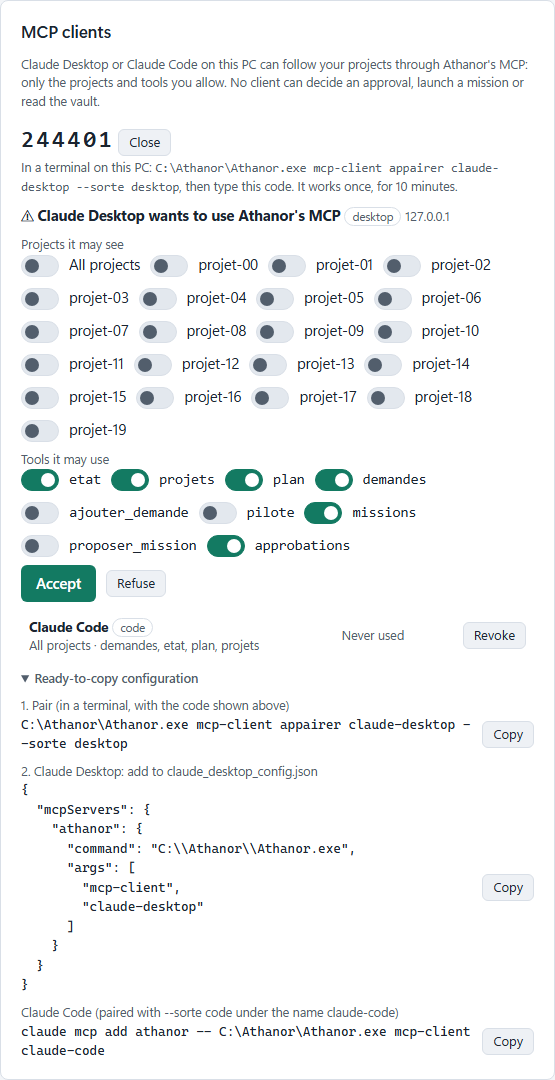
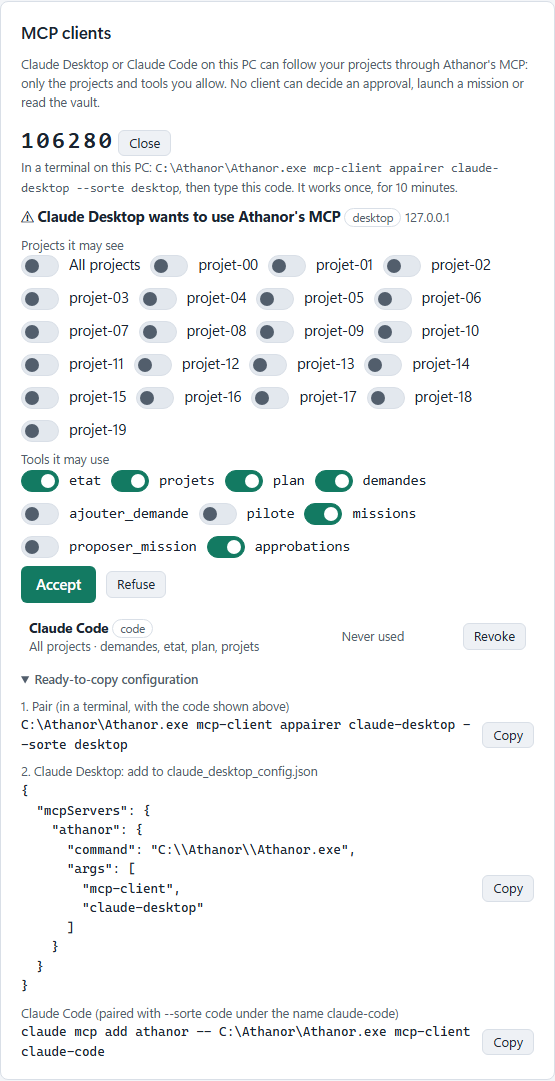
M217: Add hub, module and security images to the READMEs
- English captures of the hub, vault, access, servers, mission and e-mail pages
- Generated SVG diagrams of the modules and of the security model
- Both READMEs place the new images with translated alt texts

diff --git a/README.fr.md b/README.fr.md
@@ -37,7 +37,7 @@
 </p>
 
 <p align="center">
-  <img src="docs/images/overview.png" alt="Vue d'ensemble d'Athanor : trois ouvriers réalisent des jalons en parallèle, le plan du projet organisé en vagues, le quota de l'abonnement avec un arrêt automatique et l'avancement vers le dernier jalon" width="100%">
+  <img src="docs/images/hub.png" alt="La page d'accueil d'Athanor : la conversation avec l'assistant et ses mentions de projets et de serveurs, et les tuiles Missions, Studio et Serveurs avec leurs chiffres en direct" width="100%">
 </p>
 
 Athanor est un **hub** : un seul programme, une seule fenêtre, d'où vous pilotez des **modules** qui travaillent ensemble sur des **missions**, sans jamais accéder aux données ni aux secrets les uns des autres. **Studio** lance [Claude Code](https://claude.com/claude-code) cycle après cycle sur votre propre PC, avec votre propre abonnement Claude, jusqu'à la livraison d'un jeu, d'un site, d'une application ou d'un outil. **Serveurs** prépare votre VPS, son DNS et ses certificats, et déploie ce que Studio construit. Le **coffre** garde chaque clé chiffrée et ne donne à chaque projet que ce que vous lui accordez. Une seule phrase sur la page d'accueil peut tous les mettre au travail :
@@ -66,6 +66,10 @@ Athanor répond par une **carte de mission** : ce que Studio va construire, ce q
 Chaque module garde ses propres données (`modules/<nom>/` dans le dossier d'Athanor) et ne parle aux autres que par le hub, qui vérifie, journalise et vous demande quand c'est important. *Guide › Se repérer* en fait le tour, dans la fenêtre et dans le [terminal](#dans-un-terminal).
 
 ---
+
+<p align="center">
+  <img src="docs/images/modules.svg" alt="Les modules : vous, les clients MCP et les Athanor distants joignent le hub, toujours après appairage ; le hub tient le coffre et vérifie chaque lien ; Studio, Serveurs et E-mail gardent chacun leur dossier et ne se parlent jamais directement" width="100%">
+</p>
 
 ## Démarrage rapide
 
@@ -488,6 +492,10 @@ Les logiciels installés sont détectés sur **tous les disques** (`C:`, `D:`…
 
 Le coffre garde les clés ; *Accès* décide quel projet reçoit lesquelles, environnement par environnement. La règle qui sous-tend les deux : le pilote d'un projet ne reçoit jamais que les clés *code* que vous lui avez accordées pour son environnement en cours, et les clés de vos serveurs ne quittent jamais le processus d'Athanor.
 
+| | |
+|---|---|
+| <img src="docs/images/vault.png" alt="Page Coffre : sept secrets avec leur fournisseur, leur portée (code ou infra) et leur note, valeurs jamais affichées, et les boutons Coller et Ajouter"><br>**Coffre** : chaque clé chiffrée, portée *code* ou *infra* | <img src="docs/images/access.png" alt="Onglet Accès d'un projet : les entrées du coffre à gauche avec leurs cases dev, staging et prod, les environnements du projet à droite, et les clés infra gardées par Athanor"><br>**Accès** : glisser une clé sur un environnement |
+
 ### Le coffre
 
 *Coffre*, dans le menu, garde les clés, jetons et réglages de vos projets et de vos serveurs au même endroit, chiffrés dans le dossier d'Athanor (`hub/coffre.json`). *Guide › Le coffre* le présente pas à pas.
@@ -518,6 +526,10 @@ Ce que le coffre protège, et ce qu'il ne protège pas, est dans le [modèle de 
 
 *Serveurs*, dans le menu, liste vos VPS et serveurs maison, chacun avec sa fiche et ses tâches. *Guide › Ajouter un serveur*, *Guide › Confier une tâche à l'agent Serveurs*, *Guide › Environnements et Cloudflare* et *Guide › Mettre un site en ligne* vous accompagnent. Pour l'essayer d'abord sur un serveur sans importance, voir [docs/SERVEUR_DE_TEST.md](docs/SERVEUR_DE_TEST.md) ; tout ce qu'Athanor lit, écrit et ne fait jamais sur une machine neuve est dans [docs/MACHINE_NEUVE.md](docs/MACHINE_NEUVE.md).
 
+<p align="center">
+  <img src="docs/images/servers.png" alt="Page Serveurs : quatre serveurs avec leur état, leur adresse, leur système, leurs rôles et ce qui y tourne, et la vérification de santé des sites déployés" width="100%">
+</p>
+
 - **En ajouter un.** L'adresse, le port, l'utilisateur et les rôles (*dev* pour les essais et les aperçus, *prod* pour votre site en ligne). Athanor lit d'abord l'empreinte de la clé d'hôte du serveur pour que vous la confirmiez : il n'en accepte jamais une en silence, et une empreinte qui change plus tard est refusée avec un message clair. Puis trois façons de se connecter : une clé SSH déjà dans le coffre ; une nouvelle clé ed25519 faite par Athanor (vous copiez sa partie publique sur le serveur, puis *Vérifier*) ; ou le mot de passe du serveur, utilisé une seule fois pour y poser la clé d'Athanor, jamais gardé ni écrit dans une page ou un journal. Athanor propose ensuite de *Couper les connexions par mot de passe*, jamais de lui-même. Un serveur s'ajoute sur l'ordinateur et demande un mot de passe à Athanor (sa clé est une entrée *infra*) ; un téléphone appairé voit la liste et les fiches, en lecture seule.
 - **La fiche.** Prête environ une minute après l'ajout : système, processeurs, mémoire, disque, ports à l'écoute, logiciels présents (Docker, Compose, k3s, kubectl, nginx, Caddy, ufw), pare-feu, services et conteneurs en marche. Elle est relue sur *Actualiser*, après chaque changement fait par Athanor, et toutes les 6 heures tant que la clé *infra* du coffre est ouverte. Elle est gardée dans le dossier d'Athanor (`modules/servers/<id>/`, avec un `FICHE.md` lisible), jamais avec une clé ou un mot de passe. Les rôles se changent là ; *Retirer ce serveur* l'oublie sans toucher au serveur, et garde sa clé dans le coffre sauf si vous cochez la case.
 - **Ce qu'Athanor exécute sur un serveur.** La fiche est un seul script shell en lecture seule : `/etc/os-release`, `uname`, `nproc`, mémoire et disque, `ss` (ou `netstat`), `command -v` pour chaque outil, `ufw status`, les services et conteneurs en marche, avec `sudo -n` seulement là où il ne demande pas de mot de passe. L'ajout par mot de passe ajoute la clé publique d'Athanor à `~/.ssh/authorized_keys`. *Couper les connexions par mot de passe* écrit `/etc/ssh/sshd_config.d/00-athanor.conf`, le vérifie avec `sshd -t`, recharge SSH et se reconnecte avec la clé ; si quoi que ce soit échoue, le fichier est retiré. Tout le reste passe par un plan que vous avez accepté (ci-dessous).
@@ -540,6 +552,10 @@ Une mission est une phrase qui met plusieurs modules au travail ; une approbatio
 ### Missions
 
 Une phrase sur la page d'accueil, et plusieurs modules travaillent ensemble : **Studio** construit le projet, **Serveurs** prépare l'endroit où il tourne. *Guide › Lancer une mission* la parcourt ; chaque étape, les outils de l'orchestrateur et ce qu'il ne peut jamais faire : [docs/MISSIONS.md](docs/MISSIONS.fr.md).
+
+<p align="center">
+  <img src="docs/images/mission.png" alt="Une mission en cours : sa politique, les voies Studio et Serveurs, le relais du jalon livré jusqu'à la production qui attend votre accord, et le journal traduit" width="100%">
+</p>
 
 - **La phrase.** Dans le champ de la conversation d'accueil, par exemple « Fais un site pour la boulangerie Martin et mets-le en ligne sur martin.fr, avec une dev protégée sur @vps ». `@` nomme un projet, un serveur ou une clé du coffre par son nom (jamais une valeur) et en fait une puce ; les puces sous le champ ajoutent un projet récent, un serveur ou *Nouveau projet*. *Créer une mission* crée la mission (l'assistant peut aussi en proposer une sous forme de carte).
 - **La carte.** Un orchestrateur (une courte session Claude sans outil à elle, dans un dossier vide) lit un résumé des modules et propose une carte : ce que Studio construira (un nouveau projet ou l'un des vôtres), ce que Serveurs préparera (DNS, certificats, proxy, protection, pare-feu), les environnements avec leur adresse et leur protection, et les entrées du coffre que chacun reçoit, avec une case à décocher (*à remplir* quand le coffre ne l'a pas encore). Athanor vérifie la carte, puis calcule lui-même ce qui vous sera demandé, ce qui sera touché (serveurs, noms DNS, fichiers) et une estimation tirée des cycles mesurés sur ce PC. Une question de l'orchestrateur s'affiche en haut de la carte, avec ses choix en boutons.
@@ -564,6 +580,10 @@ Pendant qu'il travaille, le pilote parle à Athanor par un petit serveur MCP à 
 ## E-mail
 
 *E-mail*, dans le menu, garde les comptes SMTP par lesquels vos applis déployées envoient leurs e-mails (inscription, mot de passe oublié, commandes). *Guide › Envoyer des e-mails depuis vos applis* le détaille.
+
+<p align="center">
+  <img src="docs/images/email.png" alt="Page E-mail : un compte SMTP avec son serveur, son port et son expéditeur, les boutons Envoyer un e-mail de test et Configurer l'envoi" width="100%">
+</p>
 
 - **Un compte.** Choisissez le fournisseur (Gmail, Outlook, OVH, Brevo, Mailgun, SendGrid ou un autre serveur : il remplit le serveur, le port et la sécurité, que vous pouvez encore changer), puis le nom d'utilisateur, l'expéditeur et le mot de passe : pour Gmail, Outlook et Yahoo, un *mot de passe d'application*. Le mot de passe va directement dans le coffre (type *Compte e-mail*, portée *code*) et n'est plus jamais affiché ; le fichier des comptes, `modules/email/comptes.json`, ne contient aucun mot de passe.
 - **Le test.** *Envoyer un e-mail de test* envoie un court message à l'adresse de votre choix (STARTTLS, TLS implicite sur 465, ou rien vers ce PC seulement ; 20 secondes au plus ; 5 tests par minute). Un échec est dit en mots simples, jamais avec la réponse brute du serveur, reste sur la carte et attend dans la cloche jusqu'à ce qu'un test passe ; chaque test est écrit au journal d'audit, sans le mot de passe.
@@ -621,6 +641,10 @@ Chaque règle a un test automatique dans la CI et, là où on peut le montrer po
 | **I6** | La production et les actions destructrices attendent votre accord. | Décidé par le code du hub, pas par l'agent : les déploiements en *prod* attendent toujours (même dans une mission autonome), chaque approbation redemande le mot de passe d'Athanor. |
 | **I7** | Rien n'est ouvert au réseau sans appairage. | L'application, son API et son MCP n'écoutent que sur `127.0.0.1` ; l'accès à distance passe par le tunnel et l'appairage des appareils. `TestI7Listeners` vérifie chaque écoute du vrai exécutable. |
 | **I8** | Aucun secret dans le dépôt, les tests ni la CI. | Les tests fabriquent de fausses valeurs ; aucun vrai compte n'est utilisé dans la CI, et chaque envoi est passé au crible à la recherche de secrets. |
+
+<p align="center">
+  <img src="docs/images/security-model.svg" alt="Le modèle de sécurité : la demande d'un agent passe par le hub, qui vérifie le lien, puis attend votre accord en production, et seul le code d'Athanor agit avec la clé infra ; en dessous, les huit règles I1 à I8" width="100%">
+</p>
 
 **Mode Windows natif.** Il n'a pas de barrière, donc un agent pourrait ouvrir la clé *code* par DPAPI, comme vous. Lier une entrée *infra* à un projet, les tâches Serveurs et donner des clés d'infrastructure par *Pour vous* y sont refusés par défaut, avec la proposition de passer par WSL ; *Forcer en connaissance de cause* l'autorise projet par projet, après une confirmation, et chaque usage forcé est journalisé.
 

diff --git a/README.md b/README.md
@@ -37,7 +37,7 @@
 </p>
 
 <p align="center">
-  <img src="docs/images/overview.png" alt="Athanor overview: three workers building milestones in parallel, the project plan organized in waves, the subscription quota with an automatic stop, and the progress towards the last milestone" width="100%">
+  <img src="docs/images/hub.png" alt="Athanor's home page: the assistant's conversation box with project and server mentions, and the Missions, Studio and Servers tiles with their live figures" width="100%">
 </p>
 
 Athanor is a **hub**: one program, one window, from which you drive **modules** that work together on **missions**, without ever reaching each other's data or secrets. **Studio** runs [Claude Code](https://claude.com/claude-code) cycle after cycle on your own PC, with your own Claude subscription, until a game, a website, an app or a tool is delivered. **Servers** prepares your VPS, its DNS and its certificates, and deploys what Studio builds. The **vault** keeps every key encrypted, and gives each project only what you grant it. One sentence on the home page can set them all to work:
@@ -66,6 +66,10 @@ Athanor answers with a **mission card**: what Studio will build, what Servers wi
 Each module keeps its own data (`modules/<name>/` in Athanor's folder) and talks to the others only through the hub, which checks, logs, and asks you when it matters. *Guide › Finding your way* walks through it, in the window and in the [terminal](#in-a-terminal).
 
 ---
+
+<p align="center">
+  <img src="docs/images/modules.svg" alt="The modules: you, MCP clients and remote Athanors reach the hub, always paired; the hub holds the vault and checks every link; Studio, Servers and E-mail each keep their own folder and never talk to each other directly" width="100%">
+</p>
 
 ## Quick start
 
@@ -488,6 +492,10 @@ Installed software is detected on **every drive** (`C:`, `D:`…), and the newes
 
 The vault keeps the keys; *Access* decides which project gets which, environment by environment. The rule behind both: a project's pilot only ever receives the *code* keys you granted it for its current environment, and your servers' keys never leave Athanor's process.
 
+| | |
+|---|---|
+| <img src="docs/images/vault.png" alt="Vault page: seven secrets with their provider, their scope (code or infra) and their note, values never shown, and the Paste and Add buttons"><br>**Vault**: every key encrypted, scope *code* or *infra* | <img src="docs/images/access.png" alt="Access tab of a project: the vault entries on the left with their dev, staging and prod boxes, the project's environments on the right, and the infra keys kept by Athanor"><br>**Access**: drag a key onto an environment |
+
 ### The vault
 
 *Vault*, in the menu, keeps the keys, tokens and settings of your projects and servers in one place, encrypted in Athanor's folder (`hub/coffre.json`). *Guide › The vault* walks through it.
@@ -518,6 +526,10 @@ What the vault protects against, and what it does not, is in the [security model
 
 *Servers*, in the menu, lists your VPS and home servers, each with its sheet and its tasks. *Guide › Add a server*, *Guide › Give a task to the Servers agent*, *Guide › Environments and Cloudflare* and *Guide › Put a site online* walk through them. To try it first on a server of no importance, see [docs/SERVEUR_DE_TEST.md](docs/SERVEUR_DE_TEST.md); everything Athanor reads, writes and never does on a new server is in [docs/MACHINE_NEUVE.md](docs/MACHINE_NEUVE.md).
 
+<p align="center">
+  <img src="docs/images/servers.png" alt="Servers page: four servers with their state, their address, their system, their roles and what runs on them, and the health check of the deployed sites" width="100%">
+</p>
+
 - **Adding one.** The address, the port, the user and the roles (*dev* for tests and previews, *prod* for your live site). Athanor first reads the fingerprint of the server's host key for you to confirm: it never accepts one silently, and a fingerprint that changes later is refused with a clear message. Then three ways to connect: an SSH key already in the vault; a new ed25519 key made by Athanor (you copy its public part onto the server, then *Verify*); or the server's password, used once to put Athanor's own key there, never saved nor written to a page or a log. Athanor then offers to *Cut password logins*, never on its own. A server is added on the computer, and needs a password for Athanor (its key is an *infra* entry); a paired phone sees the list and the sheets, read only.
 - **The sheet.** Ready about a minute after adding: system, processors, memory, disk, listening ports, the software present (Docker, Compose, k3s, kubectl, nginx, Caddy, ufw), the firewall, running services and containers. It is read again on *Refresh*, after each change Athanor makes, and every 6 hours while the vault's *infra* key is open. It is kept in Athanor's folder (`modules/servers/<id>/`, with a readable `FICHE.md`), never with a key or a password. The roles are changed there; *Remove this server* forgets it without touching the server, and keeps its key in the vault unless you tick the box.
 - **What Athanor runs on a server.** The sheet is one read-only shell script: `/etc/os-release`, `uname`, `nproc`, memory and disk, `ss` (or `netstat`), `command -v` for each tool, `ufw status`, the running services and containers, with `sudo -n` only where it needs no password. Adding with the password appends Athanor's public key to `~/.ssh/authorized_keys`. *Cut password logins* writes `/etc/ssh/sshd_config.d/00-athanor.conf`, checks it with `sshd -t`, reloads SSH and connects again with the key; if anything fails, the file is removed. Anything else goes through a plan you accepted (below).
@@ -540,6 +552,10 @@ A mission is one sentence that sets several modules to work; an approval is an a
 ### Missions
 
 One sentence on the home page, and several modules work together: **Studio** builds the project, **Servers** prepares where it runs. *Guide › Launch a mission* walks through it; every step, the orchestrator's tools and what it can never do: [docs/MISSIONS.md](docs/MISSIONS.md).
+
+<p align="center">
+  <img src="docs/images/mission.png" alt="A mission running: its policy, the Studio and Servers lanes, the relay from milestone delivered to production waiting for your accord, and the translated journal" width="100%">
+</p>
 
 - **The sentence.** In the field of the home conversation, for example “Make a site for the Martin bakery and put it online at martin.fr, with a protected dev on @vps”. `@` names a project, a server or a vault key by its name (never a value) and turns it into a chip; the chips under the field add a recent project, a server or *New project*. *Create a mission* creates the mission (the assistant can also propose one as a card).
 - **The card.** An orchestrator (a short Claude session with no tool of its own, in an empty folder) reads a summary of the modules and proposes a card: what Studio will build (a new project or one of yours), what Servers will prepare (DNS, certificates, proxy, protection, firewall), the environments with their address and protection, and the vault entries each one gets, with a box to untick (*to fill* when the vault does not hold it yet). Athanor checks the card, then works out itself what you will be asked to approve, what will be touched (servers, DNS names, files) and an estimate from the cycles measured on this PC. A question from the orchestrator comes at the top of the card, with its choices as buttons.
@@ -564,6 +580,10 @@ While it works, the pilot talks to Athanor through a small MCP server of its own
 ## E-mail
 
 *E-mail*, in the menu, keeps the SMTP accounts your deployed apps send their e-mails through (sign-up, password reset, orders). *Guide › Send e-mails from your apps* walks through it.
+
+<p align="center">
+  <img src="docs/images/email.png" alt="E-mail page: an SMTP account with its server, port and sender, the Send a test e-mail and Configure sending buttons" width="100%">
+</p>
 
 - **An account.** Choose the provider (Gmail, Outlook, OVH, Brevo, Mailgun, SendGrid or another server: it fills in the server, the port and the security, which you can still change), then the user name, the sender and the password: for Gmail, Outlook and Yahoo, an *app password*. The password goes straight into the vault (type *E-mail account*, *code* scope) and is never shown again; the account's file, `modules/email/comptes.json`, holds no password.
 - **The test.** *Send a test e-mail* sends a short message to the address you choose (STARTTLS, implicit TLS on 465, or nothing to this PC only; 20 seconds at most; 5 tests a minute). A failure is said in plain words, never with the server's raw answer, stays on the card and waits in the bell until a test passes; each test is written to the audit log, without the password.
@@ -621,6 +641,10 @@ Each rule has an automatic test in the CI and, where it can be shown for real, a
 | **I6** | Production and destructive actions wait for your accord. | Decided by the hub's code, not by the agent: *prod* deployments always wait (even in an autonomous mission), each approval asks for Athanor's password again. |
 | **I7** | Nothing is open to the network without pairing. | The app, its API and its MCP listen on `127.0.0.1` only; remote access goes through the tunnel and device pairing. `TestI7Listeners` checks every listener of the real executable. |
 | **I8** | No secret in the repository, the tests or the CI. | Tests generate fake values; no real account is used in the CI, and every push is scanned for secrets. |
+
+<p align="center">
+  <img src="docs/images/security-model.svg" alt="The security model: an agent's request goes through the hub, which checks the link, then waits for your accord in production, and only Athanor's code acts with the infra key; below, the eight rules I1 to I8" width="100%">
+</p>
 
 **Native Windows mode.** It has no sandbox, so an agent could open the *code* key through DPAPI as you can. Linking an *infra* entry to a project, Servers tasks and giving infrastructure keys through *For you* are refused there by default, with an offer to use WSL; *Force, knowing the risk* allows it project by project, after a confirmation, and each forced use is logged.
 
